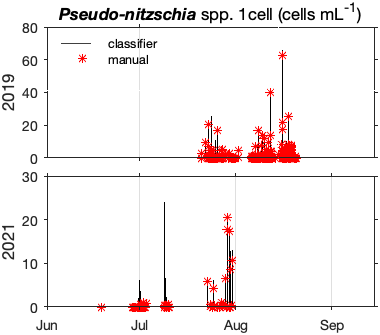
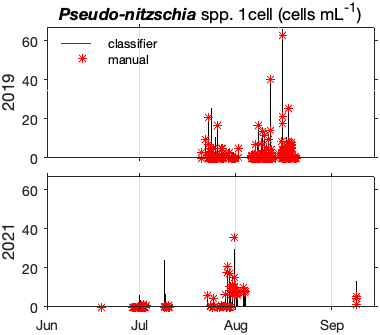
summary files

diff --git a/IFCB-Tools/TB_plots_versus_Manual_CCS.m b/IFCB-Tools/TB_plots_versus_Manual_CCS.m
@@ -1,10 +1,10 @@
 %% plot manual vs classifier results for Shimada
 clear;
 classifiername='CCS_v11';
-class2do_full='Pseudo-nitzschia_large_3cell,Pseudo-nitzschia_small_3cell';
+class2do_full='Pseudo-nitzschia_large_1cell,Pseudo-nitzschia_small_1cell';
 
 filepath = '~/Documents/MATLAB/bloom-baby-bloom/';
-outpath = [filepath 'IFCB-Data/Shimada/class/' classifiername '/Figs/'];
+outpath = [filepath 'IFCB-Data/Shimada/threshold/' classifiername '/Figs/'];
 class_indices_path=[filepath 'IFCB-Tools/convert_index_class/class_indices.mat'];   
 addpath(genpath('~/Documents/MATLAB/ifcb-analysis/'));
 addpath(genpath(filepath));
@@ -50,12 +50,14 @@ subplot = @(m,n,p) subtightplot (m, n, p, [0.05 0.05], [0.1 0.1], [0.14 0.04]);
 
 [~,label]=get_class_ind(class2do_full, 'all',class_indices_path);
 
+ymax=ceil(max(max([auto./ml_analyzedTB,man./ml_analyzed])));
+
 subplot(2,1,1);
 stem(mdateTB,auto./ml_analyzedTB,'k-','Linewidth',.5,'Marker','none'); hold on; %This adjusts the automated counts by the chosen slope. 
     plot(matdate,man./ml_analyzed,'r*','Markersize',6,'linewidth',.8);
     datetick('x', 'mmm', 'keeplimits');        
     set(gca,'xgrid','on','tickdir','out','xlim',[datetime('2019-06-01') datetime('2019-09-15')],...
-        'xticklabel',{},'fontsize',10); 
+        'xticklabel',{},'ylim',[0 ymax],'fontsize',10); 
     ylabel('2019','fontsize',12);    
     title([char(label) ' (cells mL^{-1})'],'fontsize',12); 
  legend('classifier','manual','location','nw');legend boxoff;
@@ -63,7 +65,7 @@ stem(mdateTB,auto./ml_analyzedTB,'k-','Linewidth',.5,'Marker','none'); hold on; 
 subplot(2,1,2);
 stem(mdateTB,auto./ml_analyzedTB,'k-','Linewidth',.5,'Marker','none'); hold on; %This adjusts the automated counts by the chosen slope. 
     plot(matdate,man./ml_analyzed,'r*','Markersize',6,'linewidth',.8);
-    set(gca,'xgrid','on','tickdir','out',...
+    set(gca,'xgrid','on','tickdir','out','ylim',[0 ymax],...
         'xlim',[datetime('2021-06-01') datetime('2021-09-15')],'fontsize',10); 
     datetick('x', 'mmm', 'keeplimits');    
     ylabel('2021','fontsize',12);    
